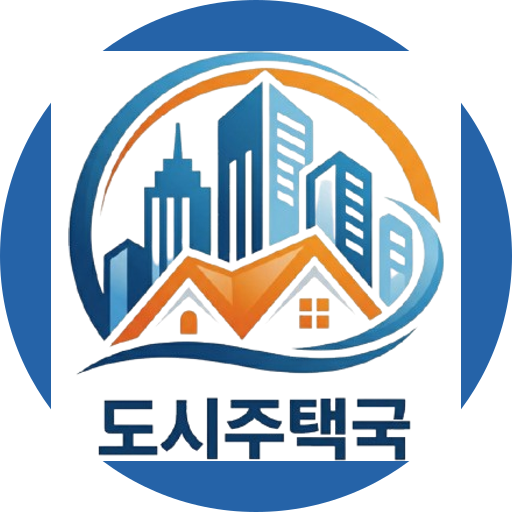
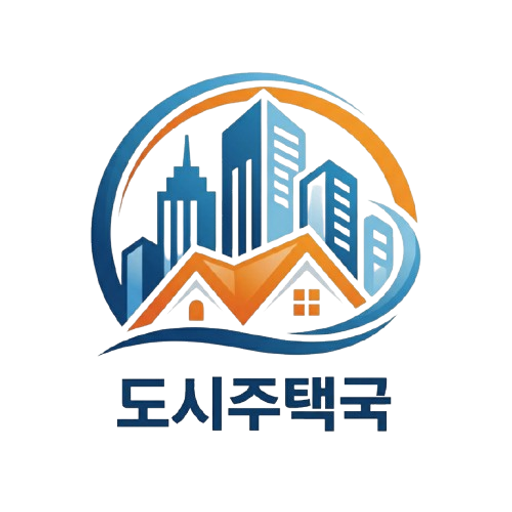
fix: 아이콘 개선 - 파란 테두리 제거, 로고를 원에 직접 꽉 채워 클리핑
이전: 파란 원 + 흰 사각형 로고 (중첩 구조로 지저분)
이후: 로고를 원 크기로 꽉 채워 원형 클리핑 (스마트 다이어리 스타일)
- background_color: #ffffff, theme_color: #1a3a5c

diff --git a/index.html b/index.html
@@ -5,16 +5,16 @@
 <meta name="viewport" content="width=device-width, initial-scale=1.0, viewport-fit=cover">
 <title>서구 도시주택국 대시보드</title>
 <!-- PWA -->
-<link rel="manifest" href="manifest.json?v=14">
-<meta name="theme-color" content="#2563a8">
+<link rel="manifest" href="manifest.json?v=15">
+<meta name="theme-color" content="#1a3a5c">
 <meta name="application-name" content="도시주택국">
 <meta name="mobile-web-app-capable" content="yes">
 <meta name="apple-mobile-web-app-capable" content="yes">
 <meta name="apple-mobile-web-app-status-bar-style" content="black-translucent">
 <meta name="apple-mobile-web-app-title" content="도시주택국">
-<link rel="icon" type="image/png" sizes="512x512" href="public/icon-512b.png?v=14">
-<link rel="apple-touch-icon" href="public/icon-512b.png?v=14">
-<link rel="shortcut icon" href="public/icon-512b.png?v=14">
+<link rel="icon" type="image/png" sizes="512x512" href="public/icon-512b.png?v=15">
+<link rel="apple-touch-icon" href="public/icon-512b.png?v=15">
+<link rel="shortcut icon" href="public/icon-512b.png?v=15">
 <link href="https://fonts.googleapis.com/css2?family=Noto+Sans+KR:wght@300;400;500;600;700&display=swap" rel="stylesheet">
 <script src="https://www.gstatic.com/firebasejs/9.23.0/firebase-app-compat.js"></script>
 <script src="https://www.gstatic.com/firebasejs/9.23.0/firebase-database-compat.js"></script>

diff --git a/sw.js b/sw.js
@@ -1,5 +1,5 @@
 // 서구 도시주택국 대시보드 - Service Worker
-const CACHE_NAME = 'bureau-dashboard-v31';
+const CACHE_NAME = 'bureau-dashboard-v32';
 const ASSETS = [
   './',
   './index.html',
